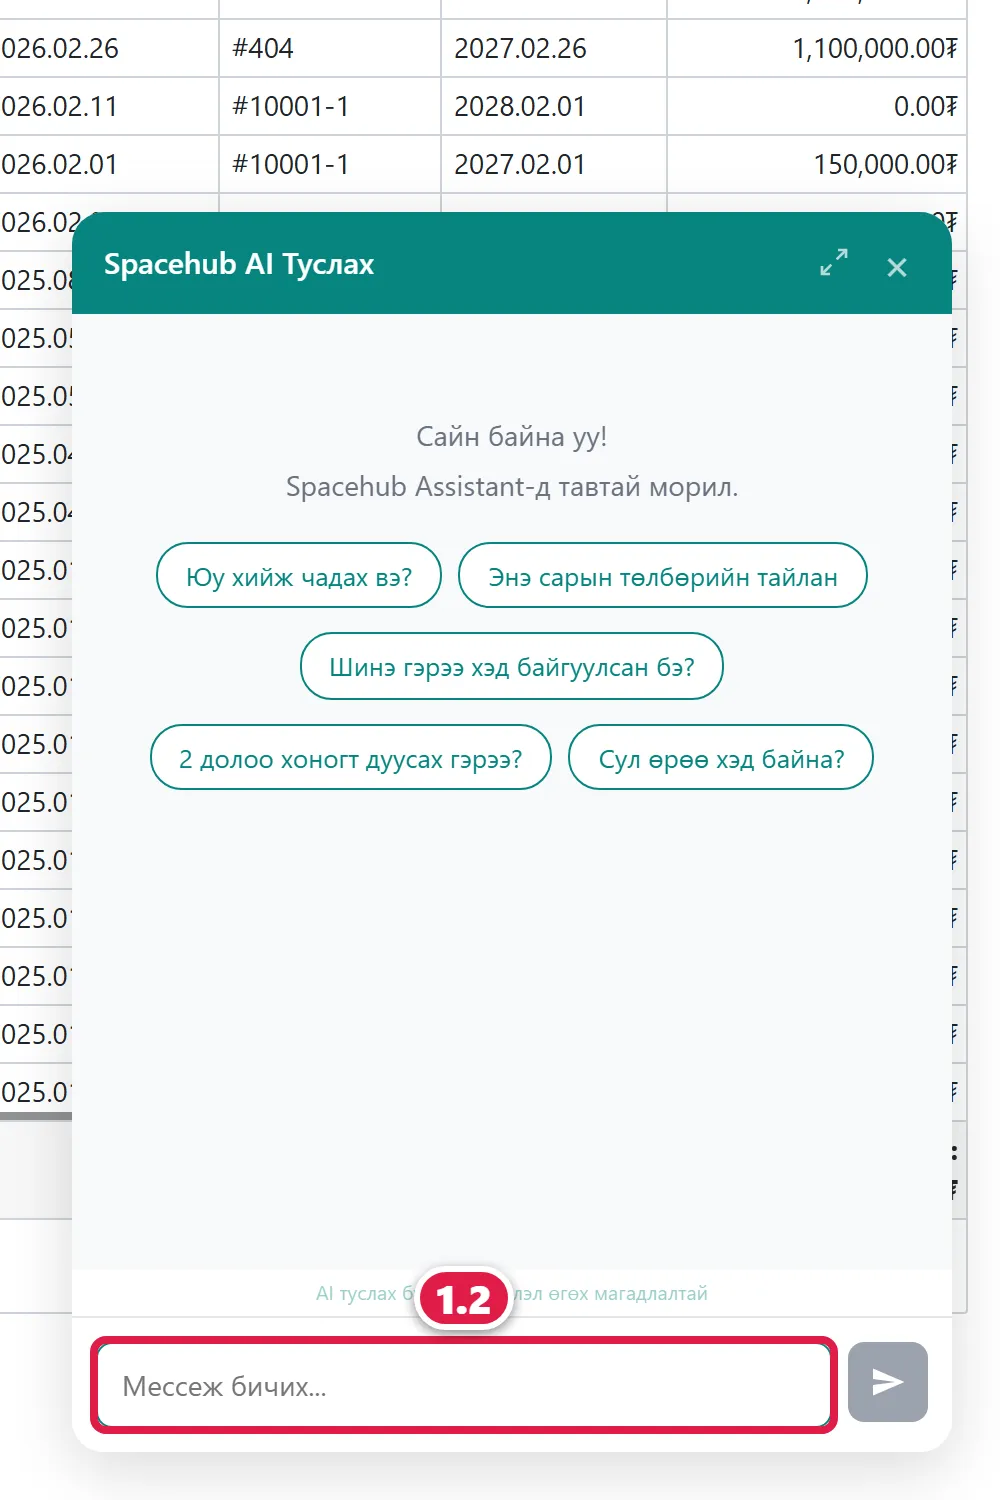
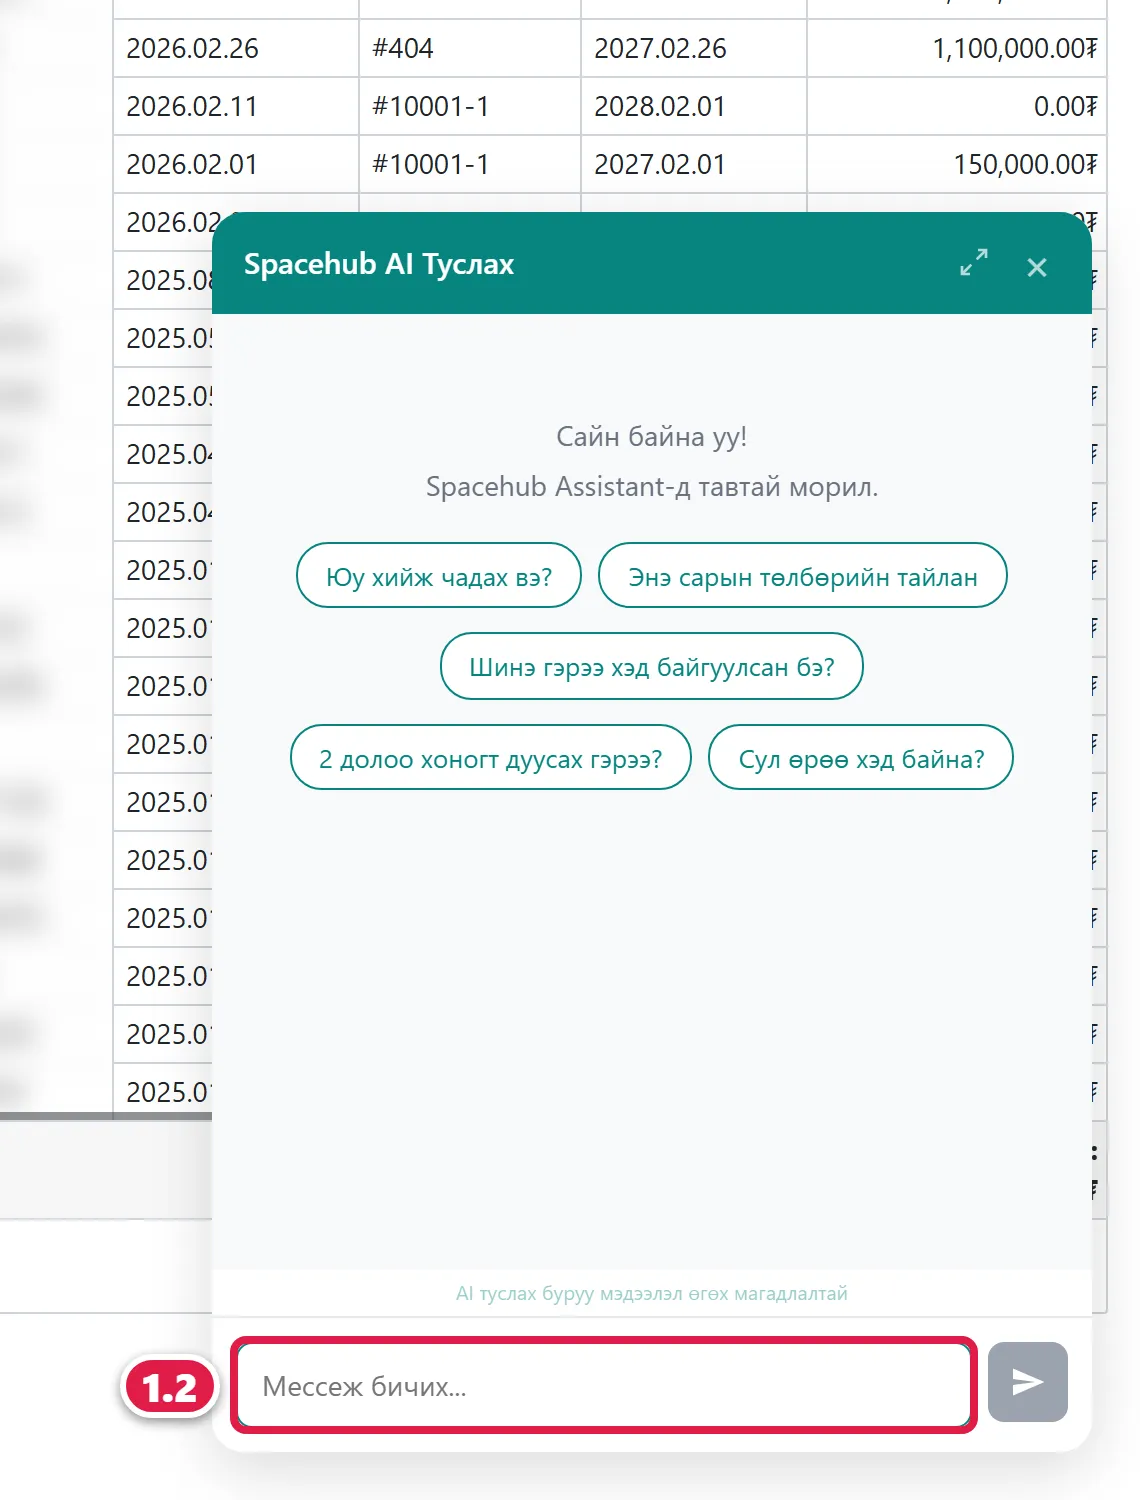
AI Туслах: гэрээний дугаараар асуусан хариуны зураг (Рентхаб 101296); QA 🟡 тэмдгийн байрлал (left/right); shoot.cjs ask + closeSel

diff --git a/docs/owner/ai-tuslah.md b/docs/owner/ai-tuslah.md
@@ -5,7 +5,7 @@ type: zaavar
 roles: [owner, nyagtlan]
 updated: 2026-11-04
 verified_commit: 527e5b2
-imgmap_skip: "1.1 цонх нээгдсэний дараа товч нуугдана · 1.3 асуулт бичсэний дараа · 1.4 толгойн дүрс"
+imgmap_skip: "1.1 цонх нээгдсэний дараа товч нуугдана · 1.3 Зураг 2-т · 1.4 толгойн дүрс"
 keywords:
   - "AI Туслах"
   - "чатбот"
@@ -35,6 +35,10 @@ keywords:
    - Хариунд гэрээний үндсэн мэдээлэл гарна: түрээслэгч, объект, өрөө/талбай, огноо, төлөв (Идэвхтэй / Хаагдсан).
    - Мөн мөнгөн дүн гарна: сарын төлбөр (НӨАТ-тэй), өр, төлөгдөөгүй тооцооны тоо, сүүлийн төлөлт.
 4. Чатыг цэвэрлэх бол толгойн хогийн савны дүрстэй **«Чат цэвэрлэх»**, хаах бол **×** дар.
+
+![AI Туслах: гэрээний дугаараар асуусан хариу](/img/owner/ai-tuslah-2.webp)
+
+*Зураг 2. Гэрээний дугаараар асуусан хариу (туршилтын гэрээ). Түрээслэгчийн нэрийг бүдгэрүүлсэн. Дарвал томорно.*
 
 ## ⚠ Анхаар
 - Цонхны доор «AI туслах буруу мэдээлэл өгөх магадлалтай» гэж бичигдсэн. Мөнгөн дүн, огноог жагсаалтаас шалгаад шийдвэр гарга.
